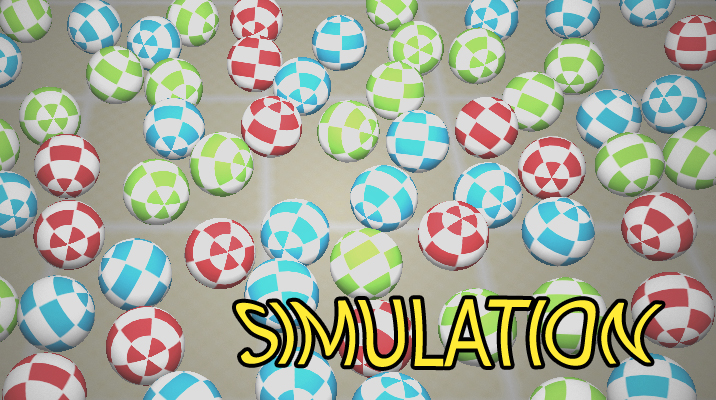
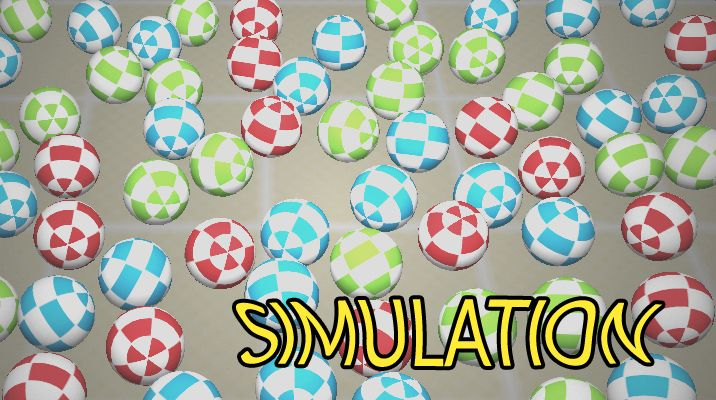
further file compression, removed animated gif.

diff --git a/vpaint.html b/vpaint.html
@@ -128,11 +128,11 @@
 				<p>Hardware used:</p>
 
 				<ul>
-					<li>Windows 10 PC, with NVidia GeForce 980 graphics
-					<li>Kinect sensor for XBOX One <a href="https://www.xbox.com/en-GB/xbox-one/accessories/kinect" target="new">&#x1F5D7;<a/>
-					<li>Kinect for Windows Adapter<a href="https://support.xbox.com/en-US/xbox-on-windows/accessories/kinect-for-windows-v2-setup" target="new">&#x1F5D7;</a>
-					<li>Leap Motion Controller <a href="https://www.leapmotion.com/product/#104" target="new">&#x1F5D7;</a>
-					<li>Oculus DK2 HMD and sensor <a href="https://www.eteknix.com/oculus-rift-dk2-vr-headset-review/" target="new">&#x1F5D7;</a>
+                    <li>Windows 10 PC, with NVidia GeForce 980 graphics</li>
+                    <li>Kinect sensor for XBOX One <a href="https://www.xbox.com/en-GB/xbox-one/accessories/kinect" target="new">&#x1F5D7;</a></li>
+                    <li>Kinect for Windows Adapter<a href="https://support.xbox.com/en-US/xbox-on-windows/accessories/kinect-for-windows-v2-setup" target="new">&#x1F5D7;</a></li>
+                    <li>Leap Motion Controller <a href="https://www.leapmotion.com/product/#104" target="new">&#x1F5D7;</a></li>
+                    <li>Oculus DK2 HMD and sensor <a href="https://www.eteknix.com/oculus-rift-dk2-vr-headset-review/" target="new">&#x1F5D7;</a></li>
 				</ul>
 
 
@@ -141,53 +141,53 @@
 				<p>The application itself requires numerous major components (and subsystems) to manage the multiple APIs and data flow; these components can be divided up into the following:</p>
 				
 				<ul>
-					<li>Main application
+                    <li>Main application</li>
 					<ul>
-						<li><a href="#appframework">Application framework</a>
+                        <li><a href="#appframework">Application framework</a></li>
 					</ul>
 
-					<li>Joints
+                    <li>Joints</li>
 					<ul>
-						<li><a href="#jointslimbs">Joints and limbs</a>
-						<li><a href="#jointsmoothing">Joint Smoothing</a>
-						<li><a href="#jointreaders">Joint Readers</a>
+                        <li><a href="#jointslimbs">Joints and limbs</a></li>
+                        <li><a href="#jointsmoothing">Joint Smoothing</a></li>
+                        <li><a href="#jointreaders">Joint Readers</a></li>
 					</ul>
 
-					<li>The User
+                    <li>The User</li>
 					<ul>
-						<li><a href="#userbody">User body class (UserBody)</a>
-						<li><a href="#userskeleton">User skeleton class (UserHands)</a>
-						<li><a href="#userhands">User hands class (UserHands)</a>
-						<li><a href="#head">What about the head?</a>
+                        <li><a href="#userbody">User body class (UserBody)</a></li>
+                        <li><a href="#userskeleton">User skeleton class (UserHands)</a></li>
+                        <li><a href="#userhands">User hands class (UserHands)</a></li>
+                        <li><a href="#head">What about the head?</a></li>
 					</ul>
-					<li>Rendering
+                    <li>Rendering</li>
 					<ul>
-						<li><a href="#dxrenderer">Window Renderer</a>
-						<li><a href="#ovrrenderer">Oculus Renderer</a>
-						<li><a href="#uirenderer">UI Renderer</a>
+                        <li><a href="#dxrenderer">Window Renderer</a></li>
+                        <li><a href="#ovrrenderer">Oculus Renderer</a></li>
+                        <li><a href="#uirenderer">UI Renderer</a></li>
 					</ul>
-					<li>Sensor, Hardware & APIs
+                    <li>Sensor, Hardware &amp; APIs</li>
 					<ul>
-						<li><a href="#ovrapi">Oculus API Wrapper (OVRAPI)</a>
-						<li><a href="#kinectv2api">Kinect 2 API Wrapper (KinectV2API)</a>
-						<li><a href="#leapapi">Leap Motion API Wrapper (LeapAPI)</a>
+                        <li><a href="#ovrapi">Oculus API Wrapper (OVRAPI)</a></li>
+                        <li><a href="#kinectv2api">Kinect 2 API Wrapper (KinectV2API)</a></li>
+                        <li><a href="#leapapi">Leap Motion API Wrapper (LeapAPI)</a></li>
 					</ul>
-					<li>Pose and Gesture Management
+                    <li>Pose and Gesture Management</li>
 					<ul>
-						<li><a href="#handedness">Left -vs- Right handedness</a>
-						<li><a href="#poses">Pose and action config system</a>
+                        <li><a href="#handedness">Left -vs- Right handedness</a></li>
+                        <li><a href="#poses">Pose and action config system</a></li>
 						<ul>
-							<li><a href="#fingerpose">Finger Poses</a>
-							<li><a href="#handpose">Hand Poses</a>
-							<li><a href="#gestureaction">Building Gesture Actions</a>
+                            <li><a href="#fingerpose">Finger Poses</a></li>
+                            <li><a href="#handpose">Hand Poses</a></li>
+                            <li><a href="#gestureaction">Building Gesture Actions</a></li>
 						</ul>
-						<li><a href="#quantposes">Quantifying poses and gestures</a>
-						<li><a href="#timingposes">Timing poses and gestures</a>
-						<li><a href="#actionposes">Acting upon poses and gestures</a>
+                        <li><a href="#quantposes">Quantifying poses and gestures</a></li>
+                        <li><a href="#timingposes">Timing poses and gestures</a></li>
+                        <li><a href="#actionposes">Acting upon poses and gestures</a></li>
 					</ul>
-					<li>Further considerations
+                    <li>Further considerations</li>
 					<ul>
-						<li><a href="#addnotes">Additional Notes</a>
+                        <li><a href="#addnotes">Additional Notes</a></li>
 					</ul>
 
 				</ul>
@@ -195,7 +195,7 @@
 				
 				<h2 class="display-8">Main Application</h2><br/>
 				
-				<a id="appframework"><h3 class="display-8">Application Framework</h4></a><br/>
+				<a id="appframework"><h3 class="display-8">Application Framework</h3></a><br/>
 				
 				<p><i>This project is a quite complicated collection of systems, the application framework section will describe a higher-level overview of the application when running. Please refer to the 
 				list above for further detail into each component or system.</i></p>
@@ -228,7 +228,7 @@
 				
 				<h2 class="display-8">Joints</h2><br/>
 
-				<a id="jointslimbs"><h3 class="display-8">Joints and limbs</h4></a><br/>
+				<a id="jointslimbs"><h3 class="display-8">Joints and limbs</h3></a><br/>
 
 				<p>A key part of any body-reading project is the joint; a camera-space (where sensor is origin to its LCS) position representing a recognised point on the human body, supplied with its own properties such 
 				as biological measurement, rotation, etc. In the scope of this project, the location (and in the case of the UserSkeleton, rotation) data are mainly used to calculate joints, limbs, and therefore a body. Joints 
@@ -238,7 +238,7 @@
 				
 				<br/>
 
-				<a id="jointsmoothing"><h3 class="display-8">Joint Smoothing</h4></a><br/>
+				<a id="jointsmoothing"><h3 class="display-8">Joint Smoothing</h3></a><br/>
 				<p>Two elements require consideration when using body detection devices and software; sampling rate (the rate at which new joint data is produced) and noise (irregularities in the data, producing inaccurate joint 
 				positions). Sampling rates are shown below:<br/><br/></p>
 				
@@ -319,14 +319,14 @@
 				  </tr>
 				  </table>
 				
-				<p><br/><sup><i>Other tradeofss do apply; these are most important to the context of the project</i></sup></p>
+				<p><br/><sup><i>Other tradeoffs do apply; these are most important to the context of the project</i></sup></p>
 				
 				<p>Futher research is needed to provide a definitve answer as to the best combination of smoothing techniques and parameters; however the implementation allows output of all positions (per-frame, per-body) from 
 				each body to analyse positional differences over time for more statistical analysis, as well as rendering multiple filtered bodies overlaid to provide a complementary visual comparison analysis.</p>
 				
 				<br/>
 				
-				<a id="jointreaders"><h3 class="display-8">Joint Readers</h4></a><br/>
+				<a id="jointreaders"><h3 class="display-8">Joint Readers</h3></a><br/>
 				
 				<p>The joint reader classes are used to request the 'packets' (or frames) of sensor data from the appropriate API (a slight decoupling). Kinect2 and Leap APIs are queried for their new data and (if available), the readers 
 				retrieve the frame object, packing the data into a container, and unpacking it into the appropriate target location. These essentially manage packet/frame requests of data from the API.</p>
@@ -337,7 +337,7 @@
 				
 				<h2 class="display-8">The User</h2><br/>
 						
-				<a id="userbody"><h3 class="display-8">User body class</h4></a><br/>
+				<a id="userbody"><h3 class="display-8">User body class</h3></a><br/>
 				
 				<p>The UserBody class manages the virtual representation of the user (the avatar) as a whole, and contains one <a href="#userskeleton">UserSkeleton</a> and two <a href="#userhands">UserHand</a> 
 				classes, representing all detectable portions of a single body. The UserBody is updated as part of the current scene (or logic) loop, in turn passing a request to update the component skeleton and hand classes.
@@ -345,7 +345,7 @@
 				
 				<br/>
 				
-				<a id="usersksleton"><h3 class="display-8">User skeleton class</h4></a><br/>
+				<a id="usersksleton"><h3 class="display-8">User skeleton class</h3></a><br/>
 				
 				<p>The UserSkeleton class represents the detected body <i>excluding</i> the hands (although does include the wrists, or carpals with a joint), which is referred to in this project as the skeleton (semantics 
 				notwithstanding). Managing the data from the KinectV2 sensor (obtained as data packets from the <a href="#kinectv2api">KinectV2API</a>), the UserSkeleton manages entities for joints and 'limbs' (connecting 
@@ -358,7 +358,7 @@
 				
 				<br/>
 								
-				<a id="userhands"><h3 class="display-8">User hands class</h4></a><br/>
+				<a id="userhands"><h3 class="display-8">User hands class</h3></a><br/>
 
 				<p>Like the <a href="#userskeleton">UserSkeleton</a> class, the UserHand class manages entities and data in the domain of the hand (finger joints, bones, etc). Entities representing finger bones (like the limbs) and joints (
 				which are gathered from the endpoints of bones in the Leap Motion data) are created by each UserHands (the body has one per real detectable hand), and the entities are updated with new data. As with UserSkeleton, the joints or 
@@ -369,7 +369,7 @@
             <p><b>Note:</b> The UserHand entities are set as children (and therefore child transformations) of the exposable UserSkeleton wrist entities; this attaches them to the wrist as a hand would normally attach, with a customizable three-dimensional 
             offset vector known as the <i>carpal offset</i> to compensate for wrist bones, moving the hand away from the wrist to a desired scale.</p><br/>
 			  
-				<a id="head"><h3 class="display-8">What about the head?</h4></a><br/>
+				<a id="head"><h3 class="display-8">What about the head?</h3></a><br/>
 				
 				<p>Good Question. While the Kinect does 'see' the head as a joint location with an approximate quaternion for rotation, more detail is needed for rendering to the Oculus Rift HMD. The Oculus SDK does provide a means of accessing the 
 				orientation information of the HMD (namely, the tilt of the user's head, looking direction, etc), but the location is often approximated as the sensor (a small IR camera) may not see the floor clearly (at the time of implementation, 
@@ -388,7 +388,7 @@
 				
 				<p>Output to the screen, UI layer of the screen and Oculus HMD is achieved using Direct3D 11.0 as a general-purpose renderer. The functionality of the renderer was extended beyond a regular Win32 application to accomodate the Oculus HMD.</p><br/>
 				
-				<a id="rendering"><h3 class="display-8">Rendering systems</h4></a><br/>
+				<a id="rendering"><h3 class="display-8">Rendering systems</h3></a><br/>
 
 				<p>The renderer is statically instanciated to perform its rendering duties, and while static classes are constructed before the main entry point of the application, the DXRenderer takes no action until its method "Initialize" is 
 				invoked. When this happens, D3D resources are created for rendering, offscreen buffers (depth, stencil, render target, etc) and render modes (structures such as stencil types, rasterizer modes, etc) are created and stored internally. The 
@@ -408,20 +408,20 @@
 				
 				<br/>
 
-				<a id="dxrenderer"><h3 class="display-8">Window Renderer</h4></a><br/>
+				<a id="dxrenderer"><h3 class="display-8">Window Renderer</h3></a><br/>
 				
 				<p>The Window renderer refers to the DXRenderer operating in the context of the render targets, views and resources allocated to a given Win32 Window via its HWND handle. The render target is set to the resources and swapchain tied to the HWND, 
 				and internal states are set accordingly. The list of entities is processed for rendering by the renderer, and the output image created as normal. For window rendering the scene, a 'scene' camera is used (a view and projection matrix set to the 
 				parameters of viewing the scene). This camera is passed alongside the entities, and the view/projection matrices are extracted for rendering as a scene camera.</p><br/>
 				
-				<a id="ovrrenderer"><h3 class="display-8">Oculus Renderer</h4></a><br/>
+				<a id="ovrrenderer"><h3 class="display-8">Oculus Renderer</h3></a><br/>
 				
 				<p>The Oculus renderer is a slightly more complex beast than the Window renderer, as it must request rendering <i>two</i> times (obviously, one per eye view) with slightly different viewing parameters to accurately allow rendering from the location 
 				of each eye (the HMD/API provides a reading for IPD: interpupillary distance -- effectively the distance betweeen the pupils when looking straight ahead). For the HMD, an 'OVRCamera' is used, derived from a scene camera to allow more control by 
 				supplying the view/projection matrix from the Oculus API (HMDs models have varying FOVs and resolutions resulting in a different projection matrix for each HMD; Oculus documentation recommends always using the API to retrieve the projection data).</p>
 				<br/>
 				
-				<a id="uirenderer"><h3 class="display-8">UI Renderer</h4></a><br/>
+				<a id="uirenderer"><h3 class="display-8">UI Renderer</h3></a><br/>
 				
 				<p>The UI overlays in the app (such as live camera data and Oculus mirror) are only rendered to the window. The UI renderer is designed to use the <a href="#dxrenderer">DXRenderer</a> to render elements to the same buffer as the scene render, using 
 				a 'UICamera' -- an orthographic projection matrix set to the window's buffer size and identity view matrix.</p>
@@ -439,7 +439,7 @@
 				removing overdraw for those sections of screen when rendering the scene (effectively the inverse painter's algorithm).</p>
 				
 				<br/>
-				<a id="sensorapis"><h2 class="display-8">Sensor, Hardware & APIs</h2></a><br/>
+				<a id="sensorapis"><h2 class="display-8">Sensor, Hardware &amp; APIs</h2></a><br/>
 				<p>The project (rather obviously) makes use of hardware such as a Leap Motion Controller, Kinect V2 and Oculus DK2 (with sensor); each item requires its own software to control and access readings for these hardware items. Each API functionality 
 				is wrapped in a statically instanciated wrapper class (<a href="#kinevtv2api">KinectV2API</a>, <a href="#ovrapi">OVRAPI</a>, <a href="#leapapi">LeapAPI</a> for Kinect V2, Oculus and Leap Motion respectively). Since statically insanticiated classes 
 				are constructed at global scope and before the entry point of the program, the API wrappers do not initialize and create resources until the <i>initialize</i> method is called. This allows the application to prepare any necessary information before 
@@ -449,7 +449,7 @@
 				<p>Each API has an <i>Update</i> method, which is called to retrieve the latest state of the APi and hardware, and check for new data (if the API/device is functioning - if not, it shuts down the wrapper ready to be re-initialized by the main 
 				application logic loop). Any new data is stored internally, and a flag for new "clean" data is set.</p><br/>
 				
-				<a id="ovrapi"><h3 class="display-8">Oculus API Wrapper (OVRAPI)</h4></a><br/>
+				<a id="ovrapi"><h3 class="display-8">Oculus API Wrapper (OVRAPI)</h3></a><br/>
 				
 				<p>The Oculus wrapper encapsulates the libovr (Oculus SDK) functionality and state objects to provide a simple interface to address the API and hardware. The API creates HMD and view data types and accesses the oculus device (and sensor) 
 				via a stored session ADT. Rendering objects and states for the HMD are stored in the <a href="#ovrrenderer">Oculus Renderer</a> class, but the requests to create these objects are made via the <a href="#dxrenderer">Window Renderer/DXRenderer</a>.</p>
@@ -459,7 +459,7 @@
 				
 				<br/>
 				
-				<a id="kinectv2api"><h3 class="display-8">Kinect V2 API Wrapper (KinectV2API)</h4></a><br/>
+				<a id="kinectv2api"><h3 class="display-8">Kinect V2 API Wrapper (KinectV2API)</h3></a><br/>
 				
 				<p>The Kinect 2 API manages the Kinect2 SDK functionality and internal objects, retrieving body and infrared frames (although more frame types are available).</p>
 
@@ -476,7 +476,7 @@
 				<p>Like the <a href="#ovrapi">Oculus API wrapper</a>, the KinectV2API has a method to copy captured frame data (infrared in this case) to a specified material object, to be used by the UIRenderer and UIElements.</p>
 
 				<br/>
-				<a id="leapapi"><h3 class="display-8">Leap API Wrapper (LeapAPI)</h4></a><br/>
+				<a id="leapapi"><h3 class="display-8">Leap API Wrapper (LeapAPI)</h3></a><br/>
             
             <p>The Leap API Wrapper (LeapAPI) encapsulates functions and objects from the Leap SDK, working in the same way to the <a href="#ovrapi">Oculus</a> and <a href="#kinectv2api">Kinect</a> API wrappers.</p>
             
@@ -492,21 +492,20 @@
             
 				<h2 class="display-8">Pose and Gesture Management</h2><br/>
             
-            <p>After all the application, sensor, API and render management work is functioning, the program needs to be able to understand when the user's body is in a particular pre-defined state to act upon (such as a 'drawing' pose). Hard-coding values 
-            is a bad practice for most programmers, but makes for bigger problems when each user has different capabilities and measurements for their body and hands. Clearly, the developer's measurements (mine) won't match other user measurements or 
-            abilities (other users may have more or less ability of movement), but completely abstract values are no use either; the answer to measure the positions of fingers on a hand, or position of a body is to measure it agains </i>itself</i>, or 
+            <p>After all the application, sensor, API and render management work is functioning, the program needs to be able to understand when the user's body is in a particular pre-defined state to act upon (such as a 'drawing' pose). Hard-coding values is a bad practice for most programmers, but makes for bigger problems when each user has different capabilities and measurements for their body and hands. Clearly, the developer's measurements (mine) won't match other user measurements or 
+            abilities (other users may have more or less ability of movement), but completely abstract values are no use either; the answer to measure the positions of fingers on a hand, or position of a body is to measure it agains <i>itself</i>, or 
             at least agains its own standard measurements. To this end, the hand poses would measure the finger bone positions relative to their neighbours and the general palm normal and orthonormal basis vectors.</p>
             <br>
             
-				<a id="handedness"><h3 class="display-8">Left -vs- Right handedness</h4></a><br/>
+				<a id="handedness"><h3 class="display-8">Left -vs- Right handedness</h3></a><br/>
             
-            While right-handed, I thought it best to implement <b>handedness</b> to allow run-time switching between left and right-handed operating modes. The project does not refer to left or right hands when processing hand gestures, but uses the 
+            <p>While right-handed, I thought it best to implement <b>handedness</b> to allow run-time switching between left and right-handed operating modes. The project does not refer to left or right hands when processing hand gestures, but uses the 
             terms <b>dominant</b> and <b>non-dominant</b>, which refers to the UI selection on the main screen (choice of left/right). All pose enumeration and action processing uses arguments of a dominant and non-dominant hand to abstract usage to 
 			customizable working paramaters.
             </p>            
             <br/>
             
-			<a id="poses"><h3 class="display-8">Pose and action config systems</h4></a><br/>
+			<a id="poses"><h3 class="display-8">Pose and action config systems</h3></a><br/>
 			
             <p>Painting in the application does not require any physical objects (stylii, remote devices, etc) to 'paint'; the application parses the current hand positions into actions to carry out, and both hand pose and action are customizable through 
 			a series of human-readable data (mostly) read by the application on initialization. In short, these files represent what constitutes a finger's pose, and which finger poses constitute a hand's pose, and which two hand poses constitute a gesture.</p>
@@ -520,7 +519,7 @@
 
             <br/>
             
-			<a id="quantposes"><h3 class="display-8">Enumerating poses and gestures</h4></a><br/>
+			<a id="quantposes"><h3 class="display-8">Enumerating poses and gestures</h3></a><br/>
 
 			<a id="fingerpose"><h4 class="display-6">Finger Poses</h4></a><br/>
 
@@ -675,7 +674,7 @@
 				
 				<p>Mappings between GestureAction and handposes (dominand and non-dominant) are made in the config files, as readable text values.</p>
 
-				<a id="enumposes"><h3 class="display-8">Enumerating poses and gestures</h4></a><br/>
+				<a id="enumposes"><h3 class="display-8">Enumerating poses and gestures</h3></a><br/>
 				
 				<p><b>How does the app determine these poses and values?</b> The config files contain pre-averaged values to classify the poses of a finger as straight, curved, closed, etc. These values are compared to the signed angle between the z-basis of 
 				each bone (longitudinal axis; the line running 'through' the centre of the bone tip to tip). The accumulated angles represents the overall curvature value of the finger (every set of two neighbouring bones in the finger are compared and the 
@@ -760,7 +759,7 @@ THREECURVED		2 2    2 2    1 1    3 3    3 3
 				<b>HandPose</b> is NONE - an invalid or non-actionable result. Every dead end experienced before maximum depth is a NO POSE situation (or for incorrectly defined data, an incomplete pose, which may cause undefined behaviour).</p>
 				
 				<p>Now the application has now searched a user-editable (well, indirectly) tree structure to retrieve a <b>HandPose</b>, using <b>FingerPose</b> data. The application knows the <b>HandPose</b> of each hand. These <b>HandPoses</b> are 
-				passed to the <b>GestureController</b> class (see <a href="#timingposes">Timing poses and gestures<a/> for further information) to be processed and passed up the 'chain'.<p>
+                    passed to the <b>GestureController</b> class (see <a href="#timingposes">Timing poses and gestures</a> for further information) to be processed and passed up the 'chain'.</p>
 				
 				<p>Once more the configuration files play a role; they define the dominant and non-dominant <b>HandPoses</b> which create <b>GestureActions</b> (for example, an open hand and a fist means 'save', etc). This allows user customization to 
 				set which gestures perform which internal commands. The values in the file are hashed to create a key, tied to the <b>GestureAction</b> in an unordered map. The <b>GestureController</b> searches the map for the dominant and non-dominant 
@@ -769,7 +768,7 @@ THREECURVED		2 2    2 2    1 1    3 3    3 3
 				
 				<br/>
 
-				<a id="timingposes"><h3 class="display-8">Timing poses and gestures</h4></a><br/>
+				<a id="timingposes"><h3 class="display-8">Timing poses and gestures</h3></a><br/>
 				
 				<p>The <b>GestureController</b> class is the first class to recieve the two <b>HandPose</b> values for dominant and non-dominant; it has two purposes in the application - first is to find matching <b>GestureActions</b> for the current 
 				<b>HandPoses</b> from the specified values in the data files (or return a state of 'no gestureaction'), and secondly to perform timing control of the <b>GestureActions</b>.</p>
@@ -801,7 +800,7 @@ MENU			INVALID			THUMBUP
 				<p>Interestingly, the cooldown can also be applied to the PAINT <b>GestureAction</b>, effectively setting a 'sampling rate' or 'resolution' for the act of painting (a value of 0.1 seconds cooldown means 10 samples per second, giving a higher 
 				mesh/painting resolution than sampling at 0.25).</p><br/>
 				
-				<a id="actionposes"><h3 class="display-8">Acting upon poses and gestures</h4></a><br/>
+				<a id="actionposes"><h3 class="display-8">Acting upon poses and gestures</h3></a><br/>
 				
 				<p>The <b>GestureActor</b> class is passed <b>HandPose</b>, <b>GestureAction</b>, and skeletal/hand coordinate data from the <b>GestureController</b> (this data is filtered by time, and not necessarily passed every frame; see 
 				<a href="#timingposes">Timing poses and gestures</a>). When the GestureActor recieves this information, it <i>acts</i> - it carries out the <b>GestureAction</b> as a command, using the hand/pose/skeletal data available.</p>
@@ -820,7 +819,7 @@ MENU			INVALID			THUMBUP
 				<p>The main idea behind the application can be considered for further development, such as using multiple kinect sensors or natural UI software, or implementing a virtual environment where the full user body is realized for more 
 				realistic interaction with virtual objects and spatial awareness.</p><br/>
 				
-				<a id="addnotes"><h3 class="display-8">Additional Notes</h4></a><br/>
+				<a id="addnotes"><h3 class="display-8">Additional Notes</h3></a><br/>
 				
 				<p>Proper sensor placement is essential; the Leap controller has a 3D custom-printed mount to hold in place on the front of the Oculus DK2 (although an official one is also available), it is necessary to keep this level, and 
 				steadily mounted. Options exist in the Leap software to detect orientation, but ensuring the sensor is the correct way up will remove this extra work. Also, any wires between the sensor and HMD should be tied back.</p>
@@ -831,17 +830,8 @@ MENU			INVALID			THUMBUP
 				  <img src="img/vpaint/kinect_ovr.JPG" class="figure-img img-fluid" alt="KinectV2 / Constellation">
 				  <figcaption class="figure-caption">Setup for the KinectV2 and Constellation sensor</figcaption>
 				</figure>			
-			
-				<p>Correct parameters and limits for the Kinect skeletal smoothing are essential; allowing beyond the normalized range involves estimation overshot, over or under-compensation and other effects:</p>
-			
-				<figure class="figure">
-				  <img src="img/vpaint/bouncy.gif" class="figure-img img-fluid" alt="Incorrect smoothing parameters">
-				  <figcaption class="figure-caption">While it can look fun, some smoothing params can cause problems if not normalized</figcaption>
-				</figure>			
-
-				<p>However, that is an improvement to how I dance...</p>
-				
-				</div>
+							
+</div>
 		
 		</div>  
 		
